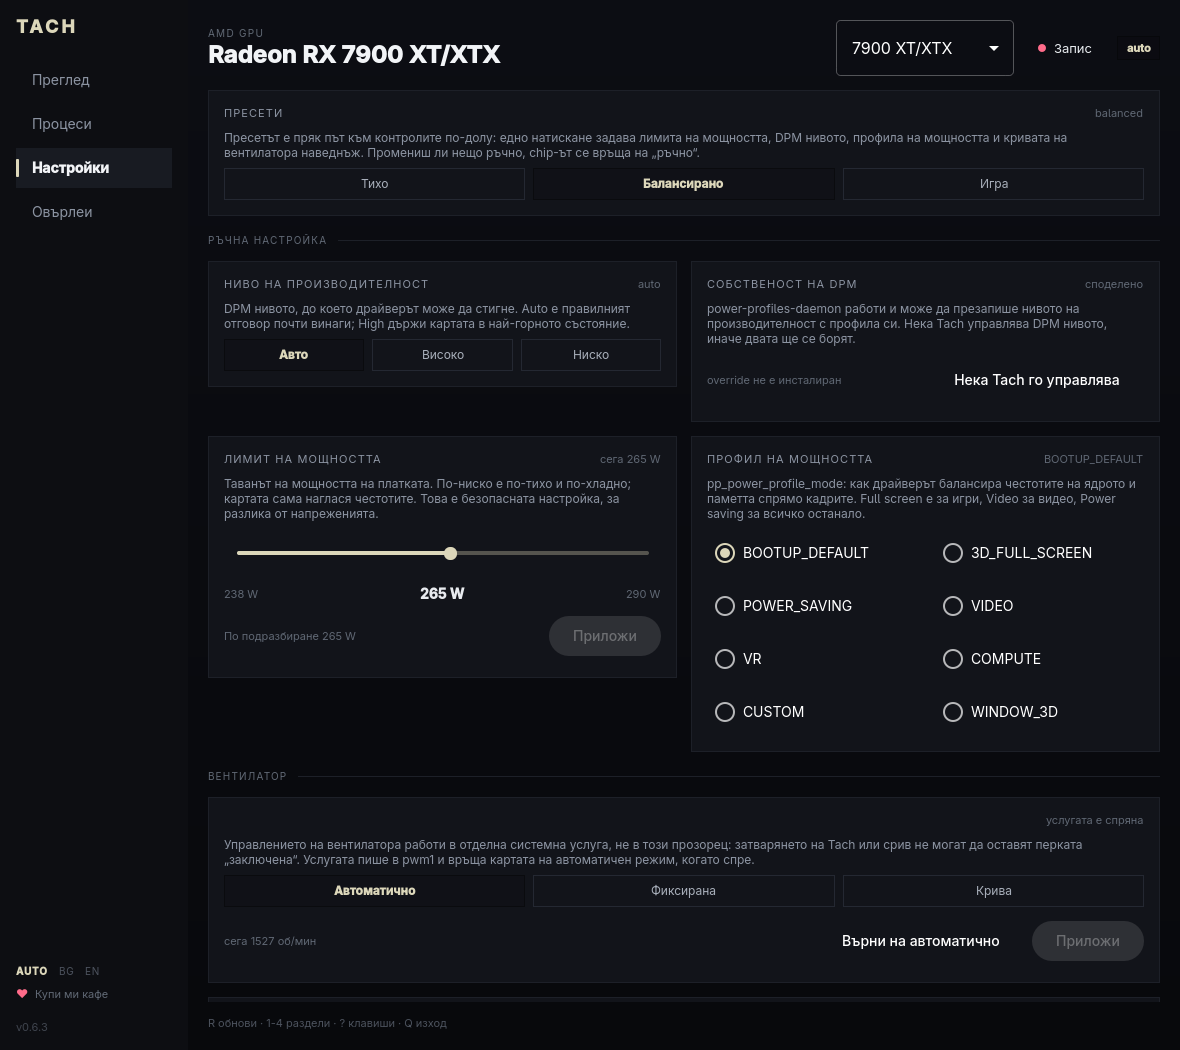
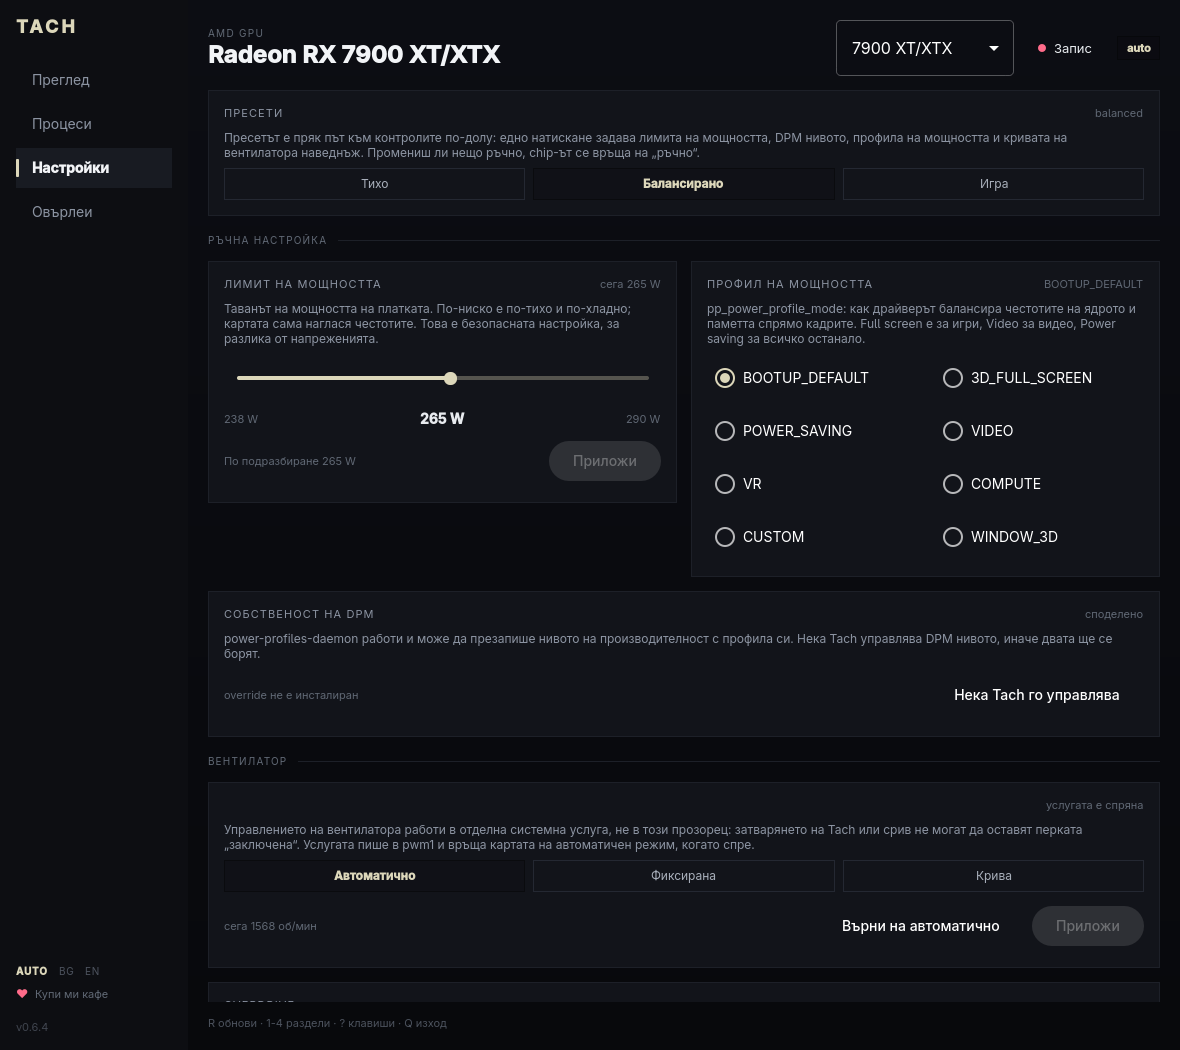
Drop the standalone DPM level control
Presets already set it, so a second set of three buttons doing the same
thing read as a duplicate. The level is still visible as the header chip and
still settable with 'tach set-level', but the Tuning tab is now presets,
power limit, power profile, fan, overdrive.

diff --git a/src/components/TuningTab.qml b/src/components/TuningTab.qml
@@ -71,76 +71,6 @@ Flickable {
         Panel {
             Layout.fillWidth: true
             Layout.alignment: Qt.AlignTop
-            title: qsTr("Performance level")
-            hint: backend.perfLevel
-
-            Text {
-                Layout.fillWidth: true
-                wrapMode: Text.WordWrap
-                color: "#8b93a1"
-                font.pixelSize: 12
-                text: qsTr("The DPM level the driver is allowed to reach. Auto is the right answer almost always; High pins the card at its top state.")
-            }
-
-            RowLayout {
-                Layout.fillWidth: true
-                spacing: 8
-
-                Repeater {
-                    model: [
-                        { level: "auto", label: qsTr("Auto") },
-                        { level: "high", label: qsTr("High") },
-                        { level: "low", label: qsTr("Low") }
-                    ]
-
-                    delegate: Choice {
-                        required property var modelData
-
-                        Layout.fillWidth: true
-                        selected: backend.perfLevel === modelData.level
-                        text: modelData.label
-                        onClicked: backend.setPerformanceLevel(modelData.level)
-                    }
-                }
-            }
-        }
-
-        Panel {
-            Layout.fillWidth: true
-            visible: backend.powerDaemonActive
-            title: qsTr("DPM ownership")
-            hint: backend.dpmManagedByTach ? qsTr("Tach manages it") : qsTr("shared")
-
-            Text {
-                Layout.fillWidth: true
-                wrapMode: Text.WordWrap
-                color: "#8b93a1"
-                font.pixelSize: 12
-                text: backend.dpmManagedByTach
-                      ? qsTr("power-profiles-daemon no longer touches the amdgpu DPM level, so the performance level above stays where you put it.")
-                      : qsTr("power-profiles-daemon is running and may overwrite the performance level with its own profile. Let Tach own the DPM level, or expect the two to fight.")
-            }
-
-            RowLayout {
-                Layout.fillWidth: true
-
-                Text {
-                    Layout.fillWidth: true
-                    text: backend.dpmManagedByTach ? qsTr("override active") : qsTr("override not installed")
-                    color: "#5f6773"
-                    font.pixelSize: 11
-                }
-                Button {
-                    text: backend.dpmManagedByTach ? qsTr("Give it back") : qsTr("Let Tach manage it")
-                    enabled: !backend.busy
-                    onClicked: backend.dpmManagedByTach ? backend.restoreDpm() : backend.takeOverDpm()
-                }
-            }
-        }
-
-        Panel {
-            Layout.fillWidth: true
-            Layout.alignment: Qt.AlignTop
             title: qsTr("Power limit")
             hint: backend.powerCapW > 0 ? qsTr("now %1 W").arg(Fmt.amount(backend.powerCapW, 0)) : ""
 
@@ -258,6 +188,41 @@ Flickable {
                 text: qsTr("This GPU does not expose power profiles.")
                 color: "#8b93a1"
                 font.pixelSize: 12
+            }
+        }
+
+        Panel {
+            Layout.fillWidth: true
+            Layout.columnSpan: content.columns
+            Layout.alignment: Qt.AlignTop
+            visible: backend.powerDaemonActive
+            title: qsTr("DPM ownership")
+            hint: backend.dpmManagedByTach ? qsTr("Tach manages it") : qsTr("shared")
+
+            Text {
+                Layout.fillWidth: true
+                wrapMode: Text.WordWrap
+                color: "#8b93a1"
+                font.pixelSize: 12
+                text: backend.dpmManagedByTach
+                      ? qsTr("power-profiles-daemon no longer touches the amdgpu DPM level, so the performance level above stays where you put it.")
+                      : qsTr("power-profiles-daemon is running and may overwrite the performance level with its own profile. Let Tach own the DPM level, or expect the two to fight.")
+            }
+
+            RowLayout {
+                Layout.fillWidth: true
+
+                Text {
+                    Layout.fillWidth: true
+                    text: backend.dpmManagedByTach ? qsTr("override active") : qsTr("override not installed")
+                    color: "#5f6773"
+                    font.pixelSize: 11
+                }
+                Button {
+                    text: backend.dpmManagedByTach ? qsTr("Give it back") : qsTr("Let Tach manage it")
+                    enabled: !backend.busy
+                    onClicked: backend.dpmManagedByTach ? backend.restoreDpm() : backend.takeOverDpm()
+                }
             }
         }
 

diff --git a/src/main.cpp b/src/main.cpp
@@ -43,7 +43,7 @@ int main(int argc, char *argv[]) {
     QGuiApplication app(argc, argv);
     QCoreApplication::setOrganizationName("tach");
     app.setApplicationName("tach");
-    app.setApplicationVersion("0.6.3");
+    app.setApplicationVersion("0.6.4");
 
     // Matches the window to tach.desktop, so the compositor (Wayland app_id)
     // and the launcher pick up the installed icon.
